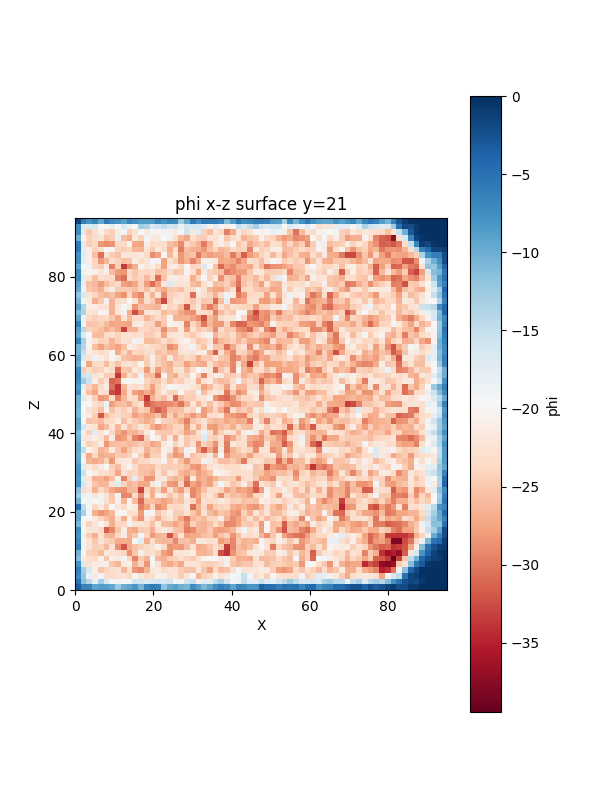
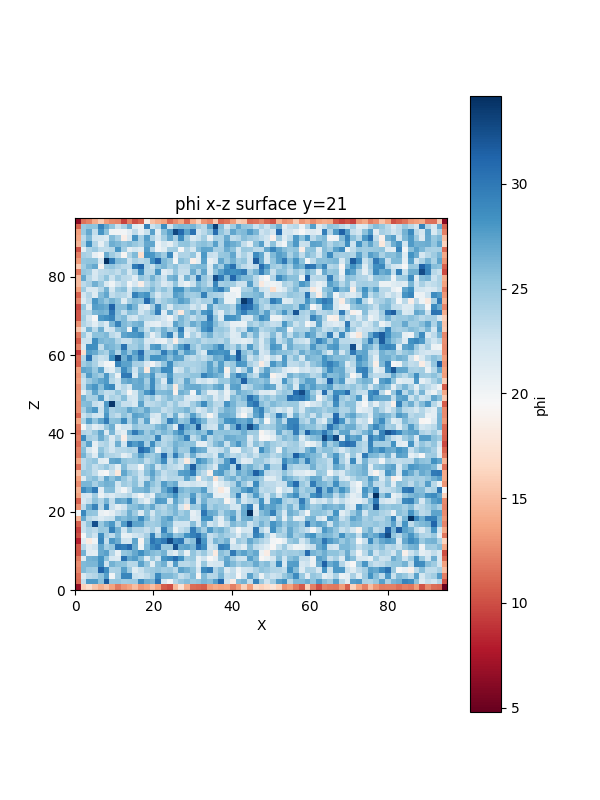
iPM3D

diff --git a/plotE.py b/plotE.py
@@ -14,6 +14,9 @@ x=coord[0,0]+coord[1,0]
 y=coord[0,1]+coord[2,1]
 z=coord[0,2]+coord[4,2]
 f=np.ones((x,y,z))
+Ex=np.ones((x-1,y,z))
+Ey=np.ones((x,y-1,z))
+Ez=np.ones((x,y,z-1))
 
 for i in range(0,8):
     a=np.loadtxt('./run/solve/petscphi'+str(i)+'.txt',skiprows=1)
@@ -61,27 +64,47 @@ for i in range(0,8):
             for y in range(0,coord[i,1]):
                for z in range(0,coord[i,2]):
                   f[x+coord[0,0],y+coord[0,1],z+coord[0,2]]=a[x,y,z]
+x=coord[0,0]+coord[1,0]
+y=coord[0,1]+coord[2,1]
+z=coord[0,2]+coord[4,2]
+for i in range(0,x-1):
+   for j in range(0,y):
+       for k in range (0,z):
+          Ex[i,j,k]=0
+          Ex[i,j,k]=f[i+1,j,k]-f[i,j,k]
+for i in range(0,x):
+   for j in range(0,y-1):
+       for k in range (0,z):
+          Ey[i,j,k]=0
+          Ey[i,j,k]=f[i,j+1,k]-f[i,j,k]
+for i in range(0,x):
+   for j in range(0,y):
+       for k in range (0,z-1):
+          Ez[i,j,k]=0
+          Ez[i,j,k]=f[i,j,k+1]-f[i,j,k]
 # print(c[0,0])
 #绘制沿z方向的切片
 print(f.shape)
 # print(f)
+
+
 
 xx=np.arange(0,5)
 yy=np.arange(0,5)
 X1,Y1=np.meshgrid(xx,yy)
 # fig = plt.figure()  #定义新的三维坐标轴
 fig,ax = plt.subplots(figsize=(6,8))
-h=f[:,:,43]
+h=Ez[:,:,43]
 # print(h)
 sm = plt.cm.ScalarMappable(cmap='hot', norm=plt.Normalize(vmin=0, vmax=1))  
 sm.set_array([])
-plt.imshow(h, cmap='RdBu', extent=[0, 95, 0, 95])  
-# plt.imshow(h, cmap='RdBu', norm=plt.Normalize(vmin=0, vmax=1000),extent=[0, 95, 0, 95])  
+# plt.imshow(h, cmap='RdBu', extent=[0, 64, 0, 64])  
+plt.imshow(h, cmap='RdBu', norm=plt.Normalize(vmin=0, vmax=40),extent=[0, 65, 0, 65])  
 plt.colorbar(label="phi")  
 
 plt.xlabel('X')  
 plt.ylabel('Y')  
-plt.title('phi x-y surface z=43')  
+plt.title('Ez x-y surface z=43')  
 print(h)
 plt.savefig("kk.png")
 

diff --git a/pic/main.cpp b/pic/main.cpp
@@ -56,9 +56,9 @@ int main(int argc, char** argv) {
     Mx = 65;
     My = 65;
     Mz = 65; //包含边界
-    dx[0]=3.125e-4; //1mm
-    dx[1]=3.125e-4;
-    dx[2]=3.125e-4;
+    dx[0]=3.125e-4*10; //1mm
+    dx[1]=3.125e-4*10;
+    dx[2]=3.125e-4*10;
     dt=1e-10;
     int num =2;
     char**name;
@@ -79,11 +79,11 @@ int main(int argc, char** argv) {
     // particle->grow(50);
     // particle->add_particle(id,ispecies,icell,x,v,erot,evib);
      createparticles->create_local(particle,domain->lo,domain->hi,ncreate);
-int step=1;//循环5个周期。
+int step=3;//循环5个周期。
 int peroid=1/dt/13.56e6;
 
      for(int i=0;i<step;i++)
-     { for(int j=0;j<553;j++)
+     { for(int j=0;j<737;j++)
       {clock_t start = clock();
       fieldsolver->fieldsolve(j*dt);
      
@@ -107,7 +107,7 @@ int peroid=1/dt/13.56e6;
       y=particle->particles[k].x[1];
       z=particle->particles[k].x[2];
       ssp=particle->particles[k].ispecies;
-        elecdens(&x,&y,&z,&ssp);}
+        iondens(&x,&y,&z,&ssp);}
          fieldsolver->plot_density();
       // fieldsolver->plot_density();
 

diff --git a/pic/particle.cpp b/pic/particle.cpp
@@ -170,9 +170,9 @@ void Particle::init(double lo[3],double hi[3],double* dx,double dt)
       //  printf("%s",species[i].id);
       // printf("%f,collisionratio\n", species[i].coll_ratio);
   }
-  species[0].charge=-1.6022e-19;
+  species[0].charge=-1.6022e-19*6103.514;
   species[0].mass=9.1095e-31*6103.514;
-  species[1].charge=1.6022e-19;
+  species[1].charge=1.6022e-19*6103.514;
   species[1].mass=39.948*AtomicMass*6103.514;
 
 
@@ -604,7 +604,9 @@ if(index>=0)
 // if(nlocal==0)
 // return ;
 for(int dim=0;dim<=2;dim++)
-  { test[0]=0;
+  { 
+   
+    test[0]=0;
     test[1]=0;
     particle_number_send[0]=0;
     particle_number_send[1]=0;
@@ -787,7 +789,17 @@ for(int i=0;i<=1;i++)
   for(int j=0;j<l[i+dim*2];j++)
   particles[plist[i+dim*2][j]].flag=1;
   }
-  
+   for(int h=0;h<2;h++)
+    {
+      if(psend[h]!=NULL)
+      free(psend[h]);
+      psend[h]=NULL;
+      if(precv[h]!=NULL)
+      free(precv[h]);
+      precv[h]=NULL;
+
+    }
+
   }
 
   
@@ -904,6 +916,13 @@ v0[k]=particles[i].v[k];}
 
 
 
+
+}
+
+for(int i=0;i<6;i++)
+{
+  if(plist[i]!=NULL)
+  free(plist[i]);
 
 }
 

diff --git a/pic/fieldsolver.cpp b/pic/fieldsolver.cpp
@@ -257,7 +257,7 @@ int FieldSolver::initpetsc( PetscInt Mx,  PetscInt My, PetscInt Mz, int* xyz_np,
                     barray[k][j][i] = k / (Mz - 1.0);
                 }
                 else {
-                      barray[k][j][i] = rho[(i-coord_x)*width_y*width_z+(j-coord_y)*width_z+k-coord_z];
+                      barray[k][j][i] = -rho[(i-coord_x)*width_y*width_z+(j-coord_y)*width_z+k-coord_z];
                     //  cout<<barray[k][j][i]<<endl;
                      barray[k][j][i]=barray[k][j][i]/this->dx[0]/this->dx[1]/this->dx[2]/Epsilon;
                    

diff --git a/plotdensity.py b/plotdensity.py
@@ -71,12 +71,12 @@ yy=np.arange(0,5)
 X1,Y1=np.meshgrid(xx,yy)
 # fig = plt.figure()  #定义新的三维坐标轴
 fig,ax = plt.subplots(figsize=(6,8))
-h=f[:,21,:]
+h=f[:,43,:]
 # print(h)
 sm = plt.cm.ScalarMappable(cmap='hot', norm=plt.Normalize(vmin=0, vmax=1))  
 sm.set_array([])
 plt.imshow(h, cmap='RdBu', extent=[0, 95, 0, 95])  
-# plt.imshow(h, cmap='RdBu', norm=plt.Normalize(vmin=0, vmax=1000),extent=[0, 95, 0, 95])  
+# plt.imshow(h, cmap='RdBu', norm=plt.Normalize(vmin=0, vmax=50),extent=[0, 65, 0, 65])  
 plt.colorbar(label="phi")  
 
 plt.xlabel('X')  
